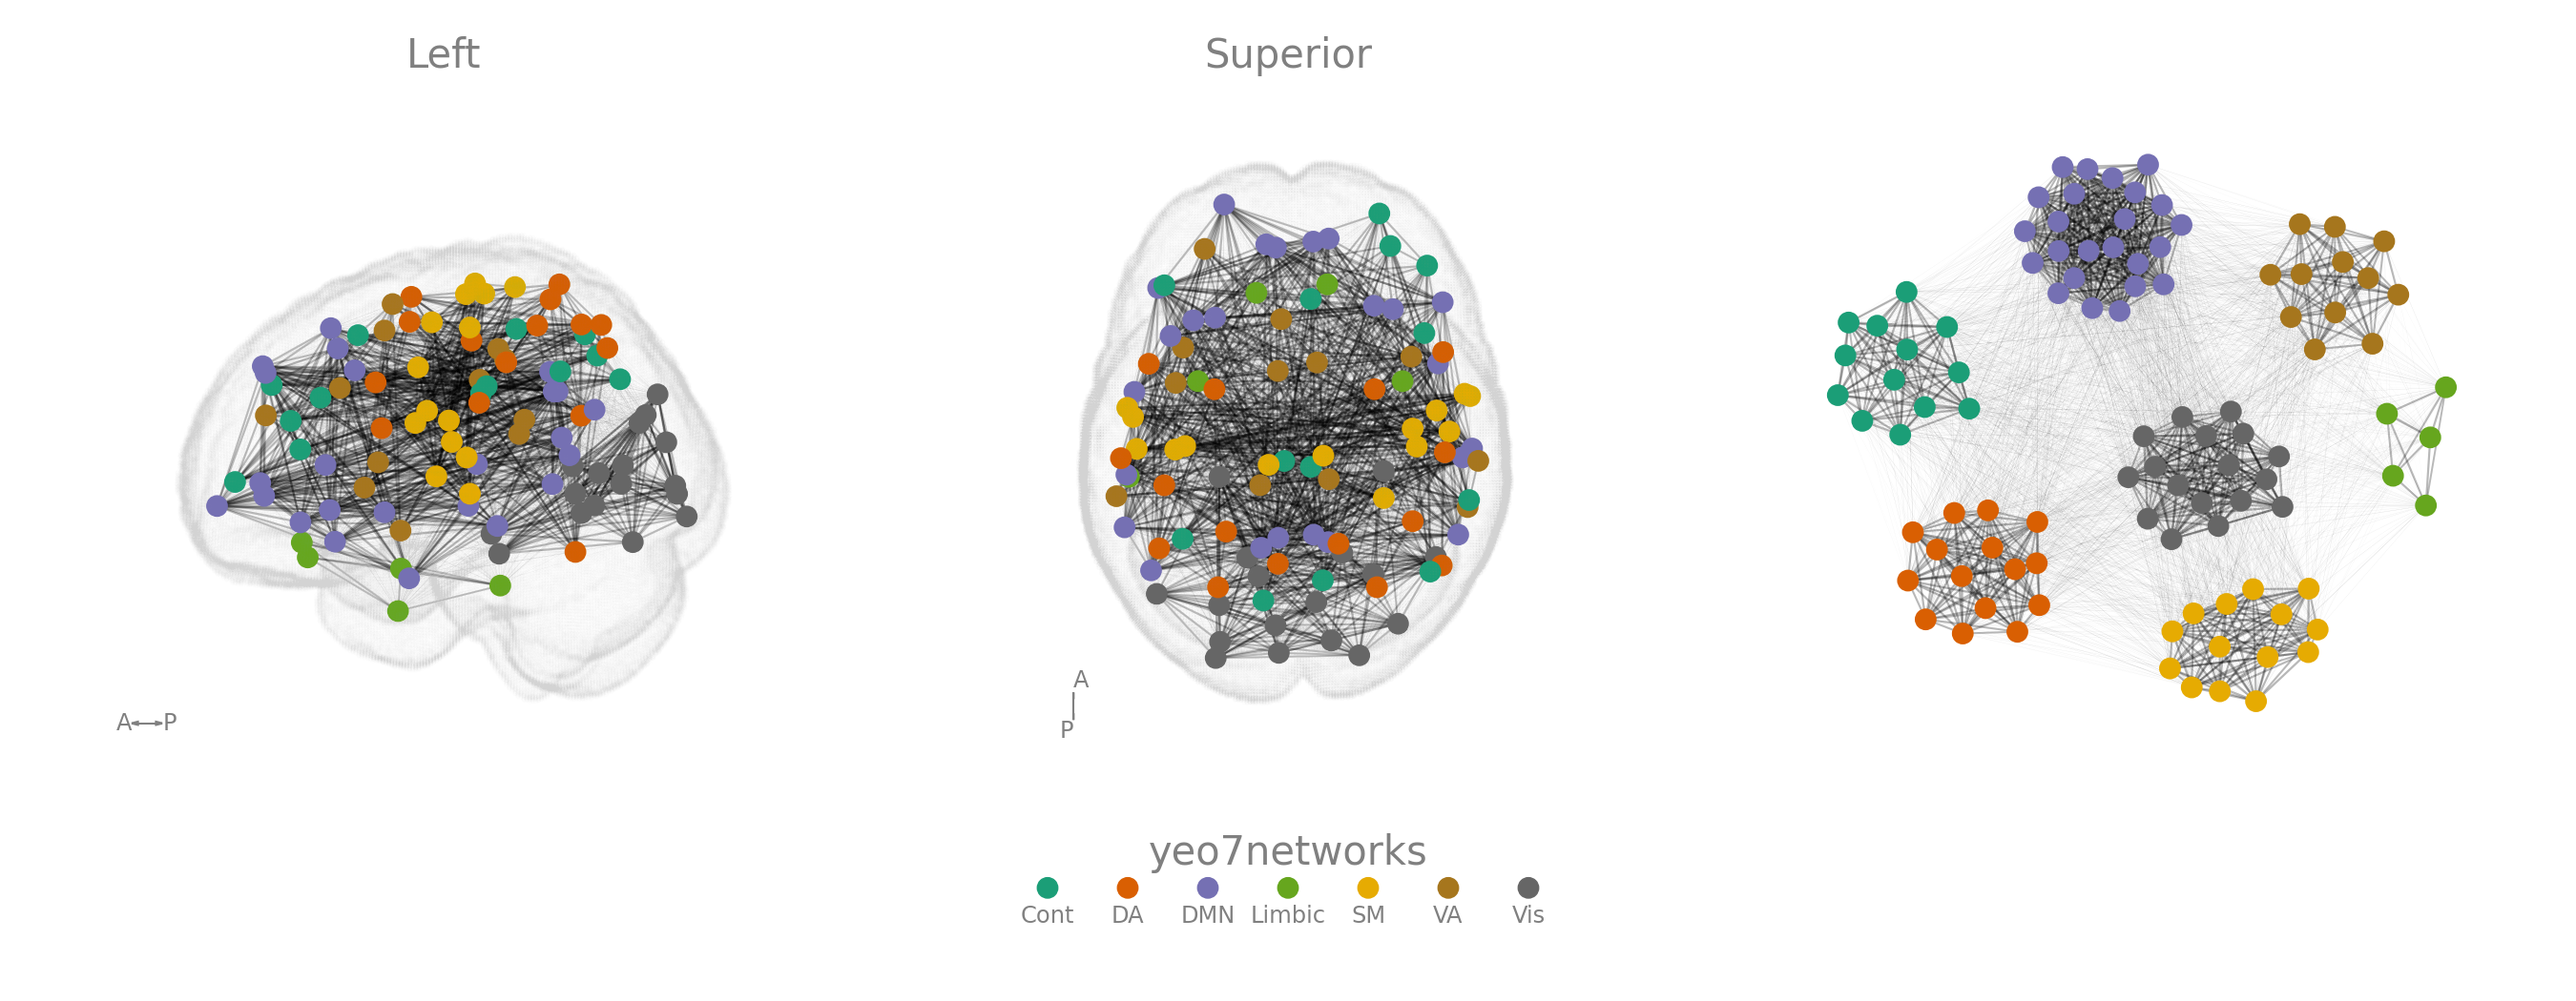
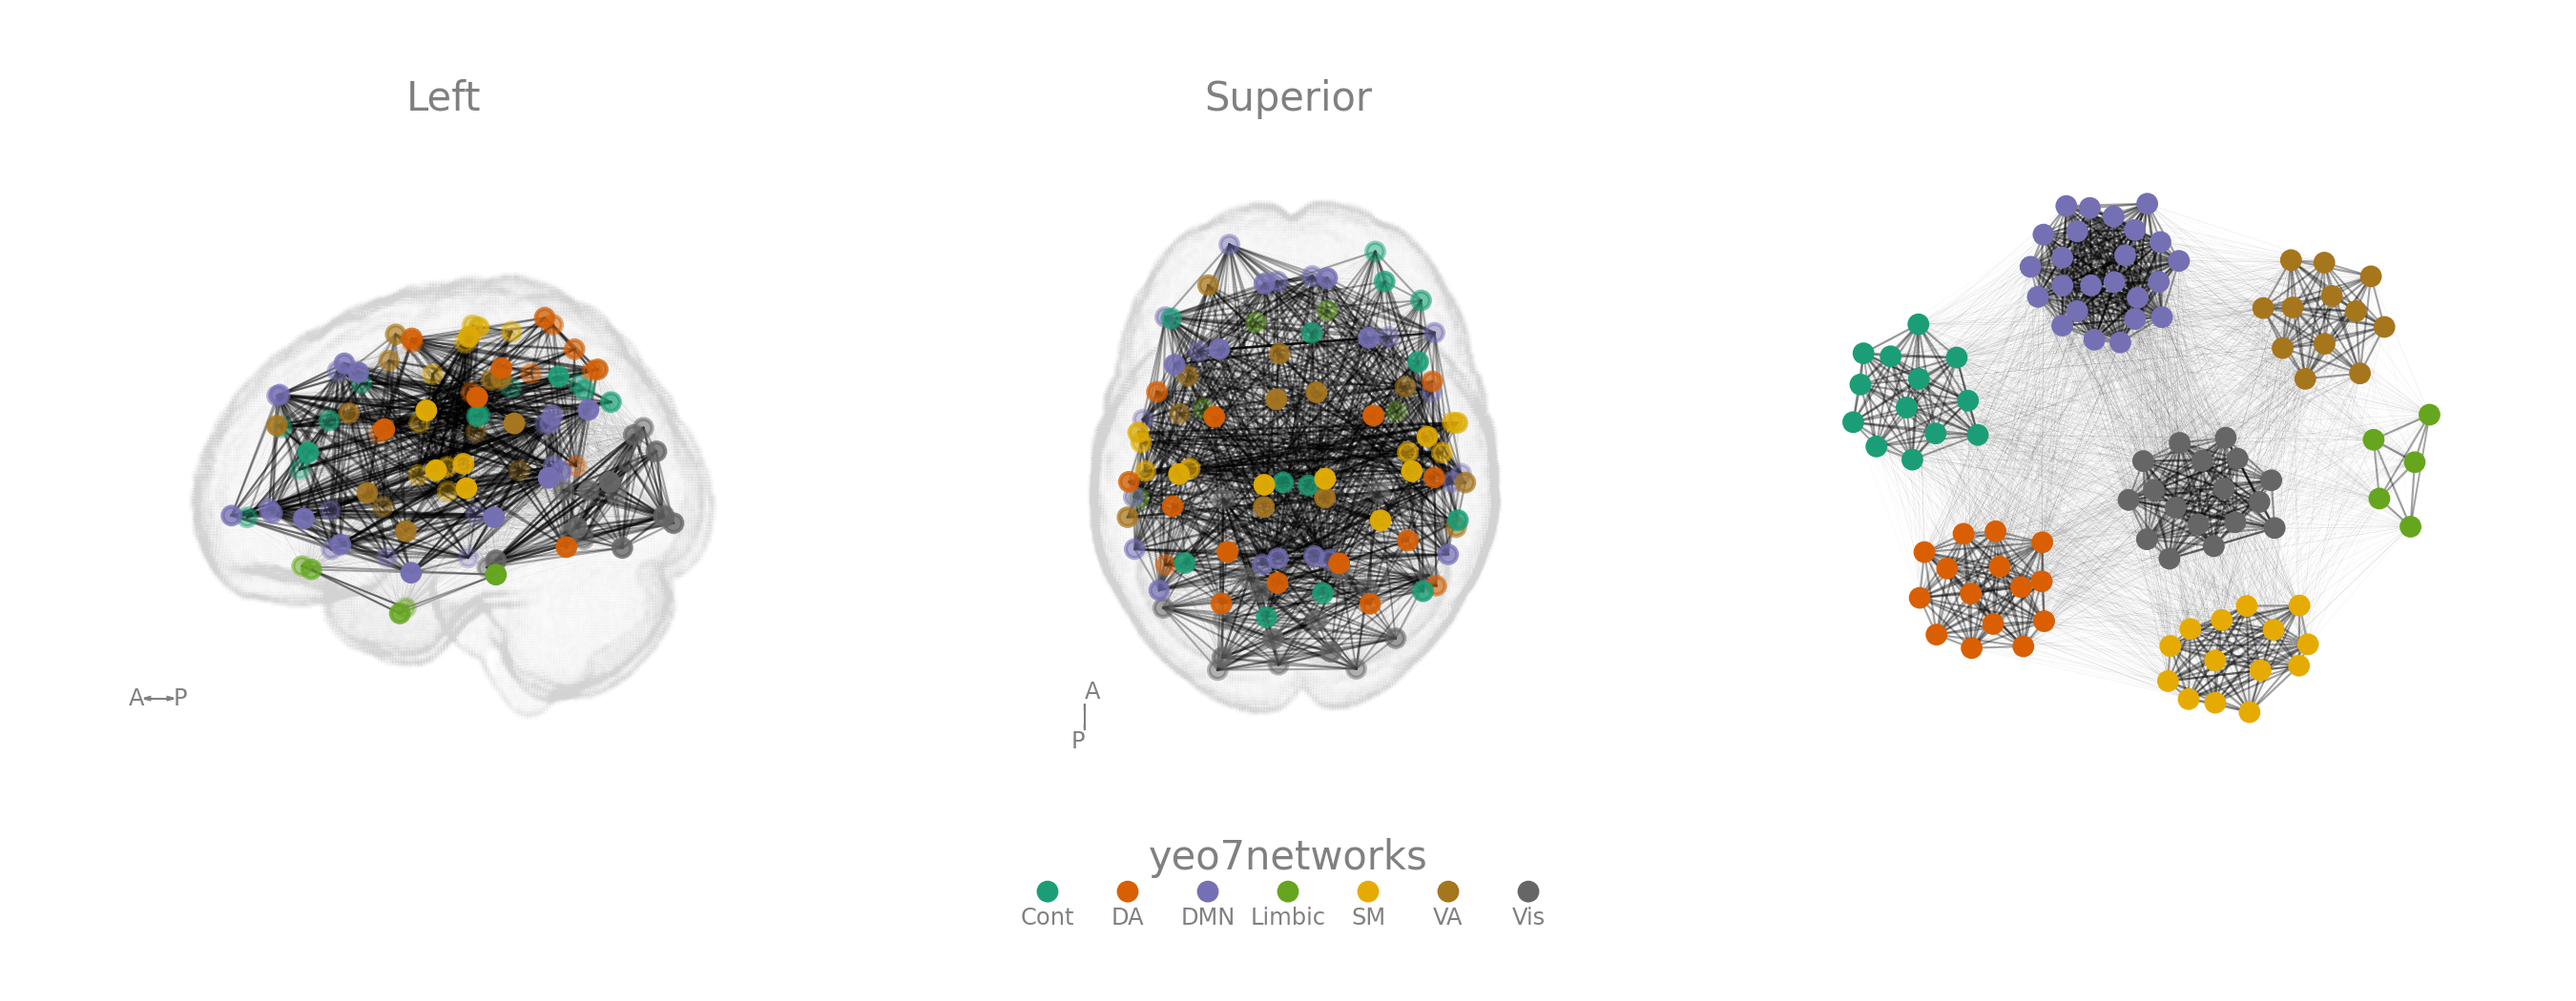
spring layout figure and code

diff --git a/spring_layout.py b/spring_layout.py
@@ -43,11 +43,12 @@ netplotbrain.plot(template='MNI152NLin2009cAsym',
                   nodes_df=atlasinfo,
                   edges=edges,
                   view='LSs',
-                  templatestyle='glass',
-                  nodescale=20,
-                  nodecolor='yeo7networks',
-                  edgethreshold=0,
-                  edgethresholddirection='>',
+                  template_style='glass',
+                  node_scale=20,
+                  node_color='yeo7networks',
+                  edge_threshold=0,
+                  edge_alpha=0.2,
+                  edge_thresholddirection='>',
                   seed=2022)
 
 plt.savefig('./figures/springlayout.png', dpi=300)
